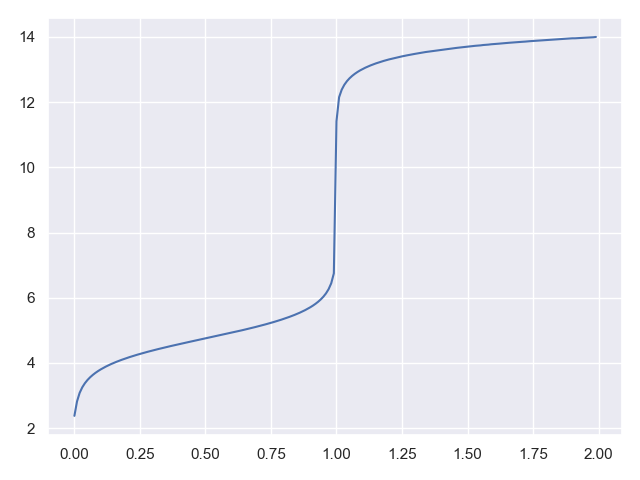
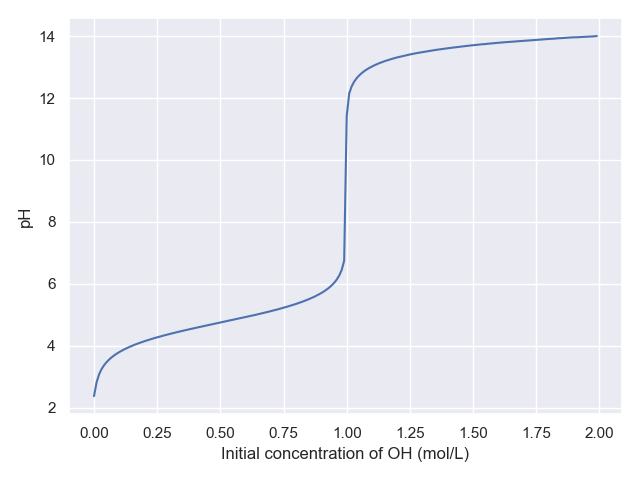
Clean up code

diff --git a/titration_lab.py b/titration_lab.py
@@ -4,10 +4,12 @@ import pandas
 import matplotlib.pyplot as plt
 import numpy as np
 
-LIMIT_TO_CONSIDER_DONE = 0.0005
+MAX_ITERATIONS = 1000
 
-RESOLUTION = 1
-MAX_CONCENTRATION = 1
+CHANGE_CUTOFF = 0.0005
+
+PH_CURVE_RESOLUTION = 0.01  # Greater number lower resolution
+CONCENTRATION_CURVE_RESOLUTION = 1  # Greater number lower resolution
 
 CH3COO = "Acetate"
 CH3COOH = "Acetic acid"
@@ -16,10 +18,10 @@ H3O = "Hydronium"
 
 KW = 10.0 ** -14
 KA = 1.76 * (10.0 ** -5)
-KB = 5.68 * (10.0 ** -10)
+KB = KW / KA
 
 
-def get_pH(initial_oh):
+def get_ph(initial_oh):
     iterations = []
     concentrations = []
     molecules = []
@@ -29,98 +31,82 @@ def get_pH(initial_oh):
         concentrations.append(value)
         molecules.append(molecule)
 
-    oh = initial_oh
+    oh = initial_oh + 10.0 ** (-7)
     ch3coo = 0.
     ch3cooh = 1.
     h3o = 10.0 ** (-7)
+
     add_row(0, ch3coo, CH3COO)
     add_row(0, ch3cooh, CH3COOH)
     add_row(0, oh, OH)
     add_row(0, h3o, H3O)
-    i = 1
-    while i < 1000:
 
-        initial_ch3cooh = ch3cooh
+    next_entry = 1
 
-        for _ in range(RESOLUTION):
-            # q_w = h3o * oh
-            # if ch3cooh == 0:
-            #     q_a = 10 ** 10
-            # else:
-            #     q_a = h3o * ch3coo / ch3cooh
-            # if ch3coo == 0:
-            #     q_b = 10 ** 10
-            # else:
-            #     q_b = ch3cooh * oh / ch3coo
+    for i in range(1, MAX_ITERATIONS):
+        # WATER AUTO-IONIZATION
+        change_w = 0.5 * (- oh - h3o + math.sqrt((oh + h3o) ** 2 - 4 * oh * h3o + 4 * KW))
 
-            change_w = 0.5 * (- oh - h3o + math.sqrt((oh + h3o) ** 2 - 4 * oh * h3o + 4 * KW))
+        if change_w < 0:
+            change_w = -min(oh, h3o, -change_w)
 
-            if change_w < 0:
-                change_w = -min(oh, h3o, -change_w)
+        oh += change_w
+        h3o += change_w
 
-            # print("change w" + str(change_w))
-            oh += change_w
-            h3o += change_w
+        # ACETIC ACID DISSOCIATION
+        change_a = (- h3o - ch3coo - KA + math.sqrt(((h3o + ch3coo + KA) ** 2) - 4 * (h3o * ch3coo - KA * ch3cooh))) / 2
 
-            change_a = 0.5 * (- h3o - ch3coo - KA + math.sqrt(
-                ((h3o + ch3coo + KA) ** 2) - 4 * h3o * ch3coo + 4 * KA * ch3cooh))
+        if change_a > 0:
+            change_a = min(change_a, ch3cooh)
+        else:
+            change_a = - min(-change_a, ch3coo, h3o)
 
-            if change_a > 0:
-                change_a = min(change_a, ch3cooh)
-            else:
-                change_a = - min(-change_a, ch3coo, h3o)
+        ch3cooh -= change_a
+        ch3coo += change_a
+        h3o += change_a
 
-            # print("change a" + str(change_a))
-            ch3cooh -= change_a
-            ch3coo += change_a
-            h3o += change_a
+        #  ACETATE BASE
+        change_b = (- oh - ch3cooh - KB + math.sqrt(((oh + ch3cooh + KB) ** 2) - 4 * (oh * ch3cooh - KB * ch3coo))) / 2
 
-            change_b = 0.5 * (- oh - ch3cooh - KB + math.sqrt(
-                ((oh + ch3cooh + KB) ** 2) - 4 * oh * ch3cooh + 4 * KB * ch3coo))
+        if change_b > 0:
+            change_b = min(change_b, ch3coo)
+        else:
+            change_b = - min(-change_b, ch3cooh, oh)
 
-            if change_b > 0:
-                change_b = min(change_b, ch3coo)
-            else:
-                change_b = - min(-change_b, ch3cooh, oh)
+        ch3coo -= change_b
+        oh += change_b
+        ch3cooh += change_b
 
-            # print("change b" + str(change_b))
+        if i % CONCENTRATION_CURVE_RESOLUTION == 0:
+            add_row(next_entry, ch3coo, CH3COO)
+            add_row(next_entry, ch3cooh, CH3COOH)
+            add_row(next_entry, oh, OH)
+            add_row(next_entry, h3o, H3O)
+            next_entry += 1
 
-            ch3coo -= change_b
-            oh += change_b
-            ch3cooh += change_b
-
-        add_row(i, ch3coo, CH3COO)
-        add_row(i, ch3cooh, CH3COOH)
-        add_row(i, oh, OH)
-        add_row(i, h3o, H3O)
-
-        if change_b < LIMIT_TO_CONSIDER_DONE and change_a < LIMIT_TO_CONSIDER_DONE and change_w < LIMIT_TO_CONSIDER_DONE:
+        if change_b < CHANGE_CUTOFF and change_a < CHANGE_CUTOFF and change_w < CHANGE_CUTOFF:
             break
 
-        i += 1
     df = pandas.DataFrame({"Iteration": iterations, "Concentration": concentrations, "Type": molecules})
-    # print(df)
+
     # sns.set()
     # sns.lineplot(x='Iteration', y='Concentration', data=df, hue="Type")
 
-    # print()
-    h3o_concentration = df.loc[(df['Iteration'] == i) & (df['Type'] == H3O), "Concentration"]
-    if h3o_concentration.item() == 0:
-        # print("pH: infinity")
-        return -1
-    else:
-        pH = -math.log10(h3o_concentration)
-        # print(f"ph: {pH}")
-        return pH
+    h3o_concentration = df.loc[(df['Iteration'] == (next_entry - 1)) & (df['Type'] == H3O), "Concentration"]
+
+    return -math.log10(h3o_concentration)
 
 
-x_values = np.arange(0, 2, 0.01)
-y_values = []
+x_values = np.arange(0, 2, PH_CURVE_RESOLUTION)
+ph_values = []
 
 for c in x_values:
-    y_values.append(get_pH(c))
+    ph_values.append(get_ph(c))
+
+ph_df = pandas.DataFrame({"pH": ph_values, "Initial concentration of OH (mol/L)": x_values})
 
 sns.set()
-sns.lineplot(x=x_values, y=y_values)
+plot = sns.lineplot(x="Initial concentration of OH (mol/L)", y="pH", data=ph_df)
+plot.axes.set_ylim(1, 14)
 
 plt.show()
